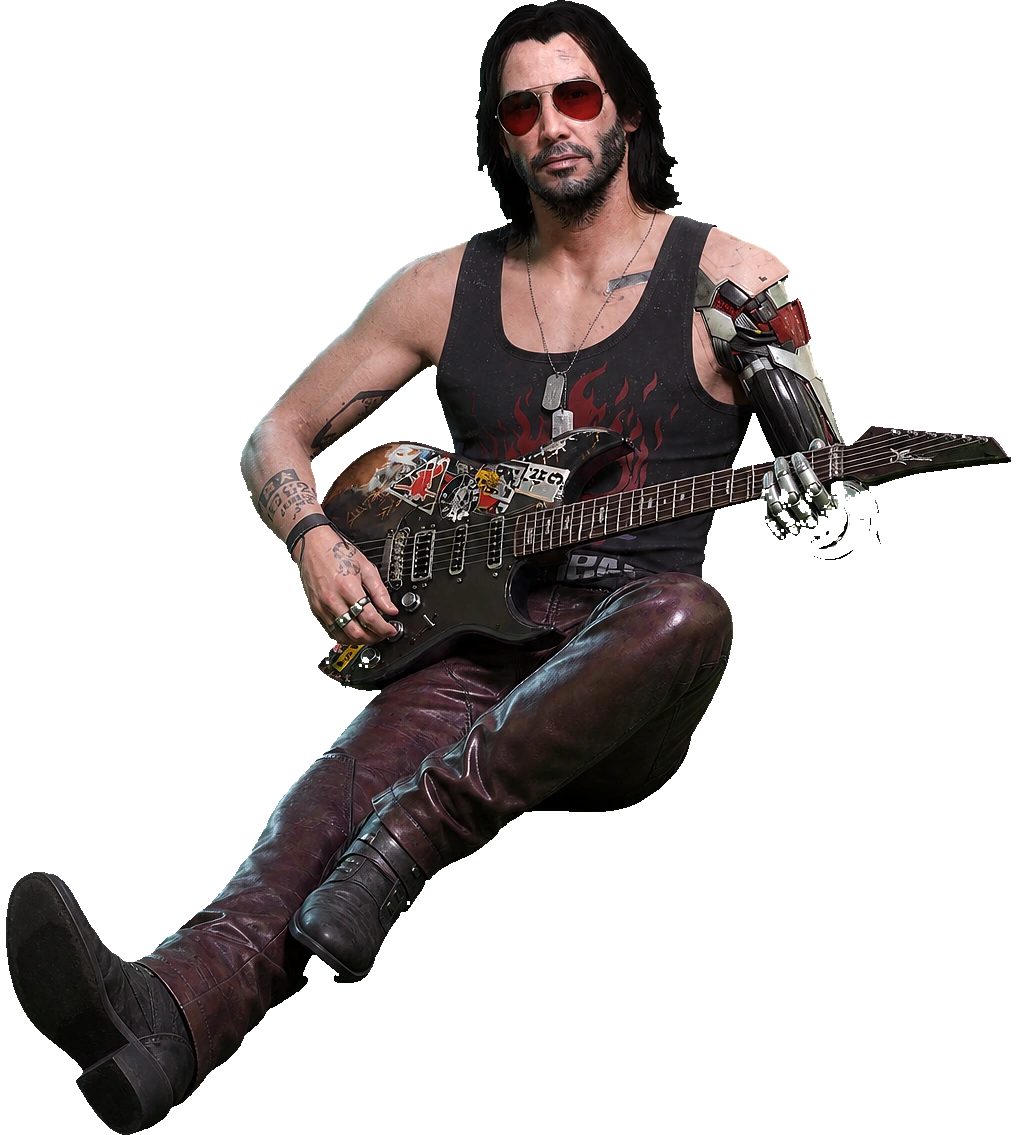
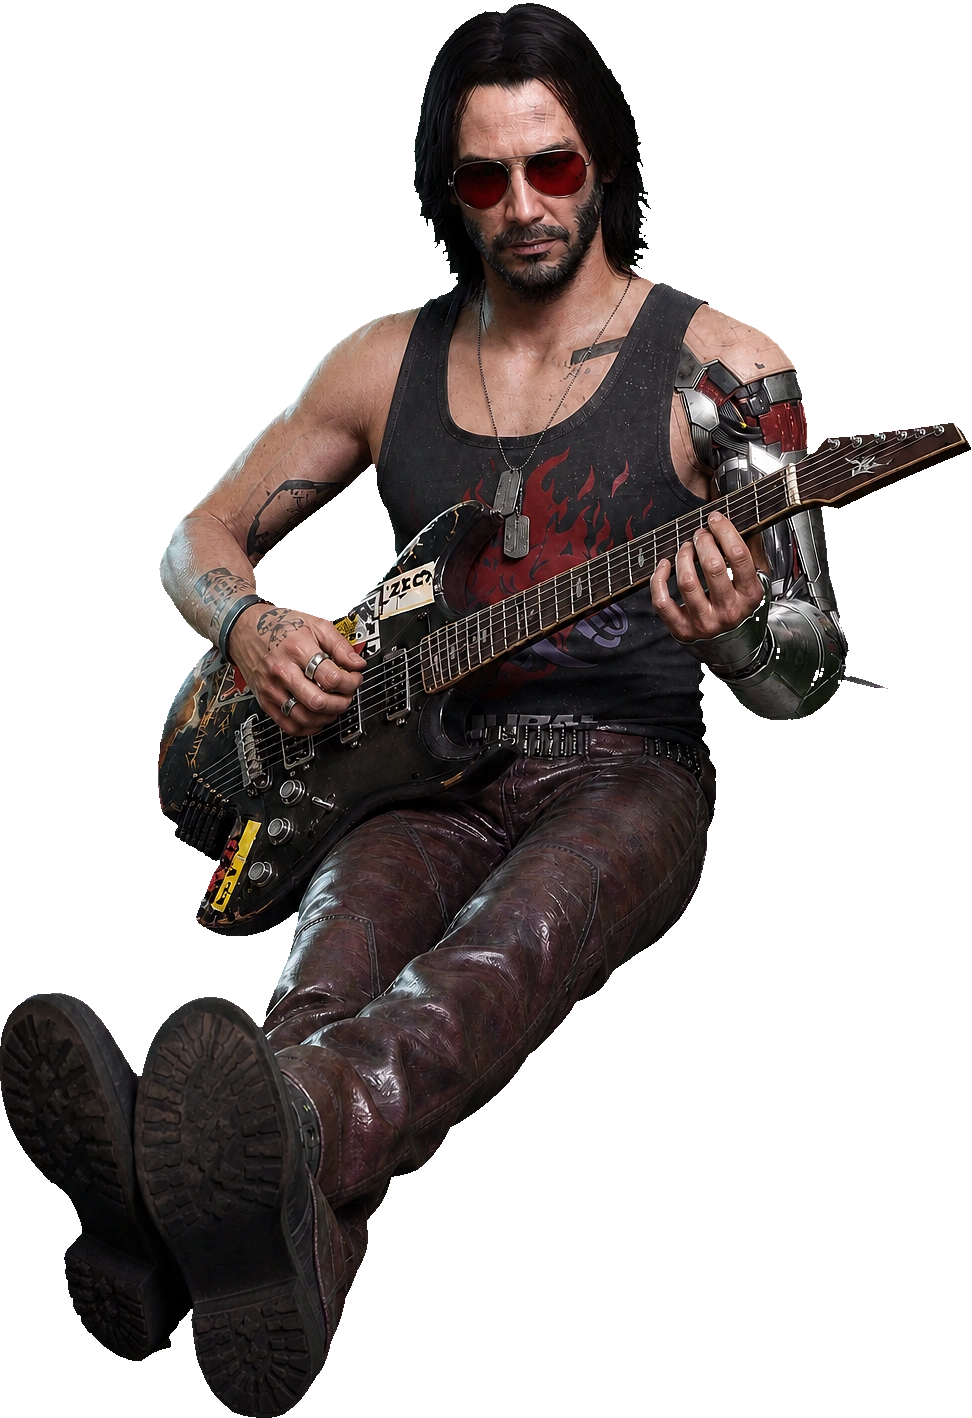
Twenty-four frames at seventy milliseconds, sized to him

diff --git a/src/renderer/js/guitar.js b/src/renderer/js/guitar.js
@@ -2,7 +2,9 @@
 // or one chord when nothing is happening. He is drawn at the size of the character he sits beside — never
 // bigger — and when you cut him off he comes apart in a glitch instead of vanishing.
 
-const STRUM_MS = 240; // two drawings, alternating like a slow strum
+const STRUM_MS = 70; // twenty-four drawings: a whole strumming cycle in 1.7 seconds
+// a sitting man is shorter than the same man standing: this keeps him from looking like a giant
+const SIT_SCALE = 0.78;
 const GLITCH_MS = 320;
 
 export class Guitar {
@@ -35,7 +37,7 @@ export class Guitar {
     const avatar = document.getElementById('capri');
     const rect = avatar?.getBoundingClientRect();
     const floor = this.capri?.view?.floor || window.innerHeight;
-    const height = Math.round(rect?.height || Math.floor(window.innerHeight * 0.36));
+    const height = Math.round((rect?.height || Math.floor(window.innerHeight * 0.36)) * SIT_SCALE);
     const width = Math.round((height * img.naturalWidth) / (img.naturalHeight || 1));
     const bottom = Math.max(0, Math.round(window.innerHeight - (rect?.bottom ?? floor)));
     const left = Math.round((rect?.left ?? window.innerWidth - width - 10) + ((rect?.width ?? width) - width) / 2);
